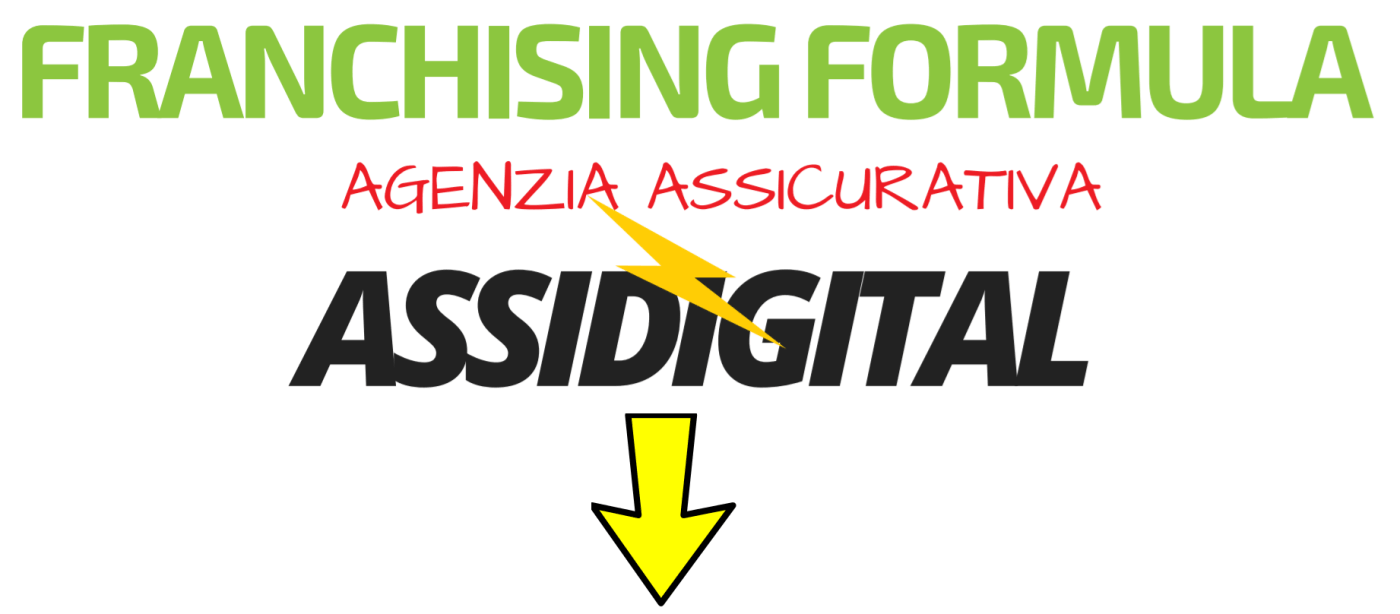
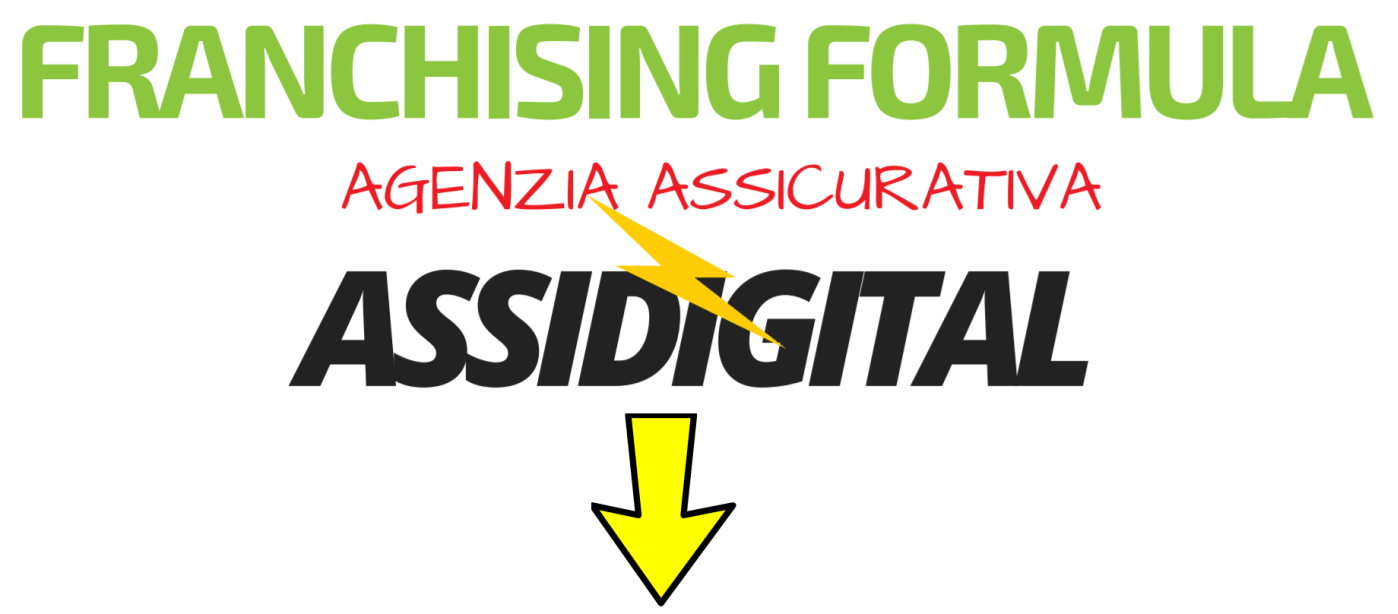
create github pages

diff --git a/index.html b/index.html
@@ -26,7 +26,7 @@
         <div class="row">
             <div class="col-xs-12">
                 <figure class="mbr-figure">
-                    <div><img src="assets/images/franchising-formula-assidigital-png-1400x614.png"></div>
+                    <div><a href="https://docs.google.com/forms/d/e/1FAIpQLScYS74e0lZJT6iQUyz6ZMIPa9oIENsVUTKoYoPeDB8_Db7yCQ/viewform" target="_blank"><img src="assets/images/franchising-formula-assidigital-png-1400x614.png" alt="franchising assicurativo" title="assicurazioni franchising"></a></div>
 
                     
 
@@ -101,7 +101,7 @@
 </em></strong></li><li class="list-group-item"><strong><em>Corso Digital Marketing "Full"
 </em></strong></li><li class="list-group-item"><strong><em>Software vendita "Plus35" conforme regole IDD
 </em></strong></li><li class="list-group-item"><strong><em>Supporto dedicato 9/18</em></strong></li></ul></div>
-                      <div class="mbr-plan-btn"><a href="https://docs.google.com/forms/d/e/1FAIpQLSeGjoB_mR-ppUk-lKnMZazCAQPpm-uoBJgkC2Zbv9KKkhxRzA/viewform" class="btn btn-lg btn-success" target="_blank">SCOPRI DI PIU'</a></div>
+                      <div class="mbr-plan-btn"><a href="https://docs.google.com/forms/d/e/1FAIpQLScYS74e0lZJT6iQUyz6ZMIPa9oIENsVUTKoYoPeDB8_Db7yCQ/viewform" class="btn btn-lg btn-success" target="_blank">SCOPRI DI PIU'</a></div>
                     </div>
                 </div>
             </div>
@@ -151,7 +151,7 @@
 
                     <form action="https://mobirise.com/" method="post" data-form-title="Scrivici">
 
[2 lines of base64/hex data omitted]
 
                         <div class="col-xs-12 col-md-8 col-md-offset-2 form-wrap">
 
